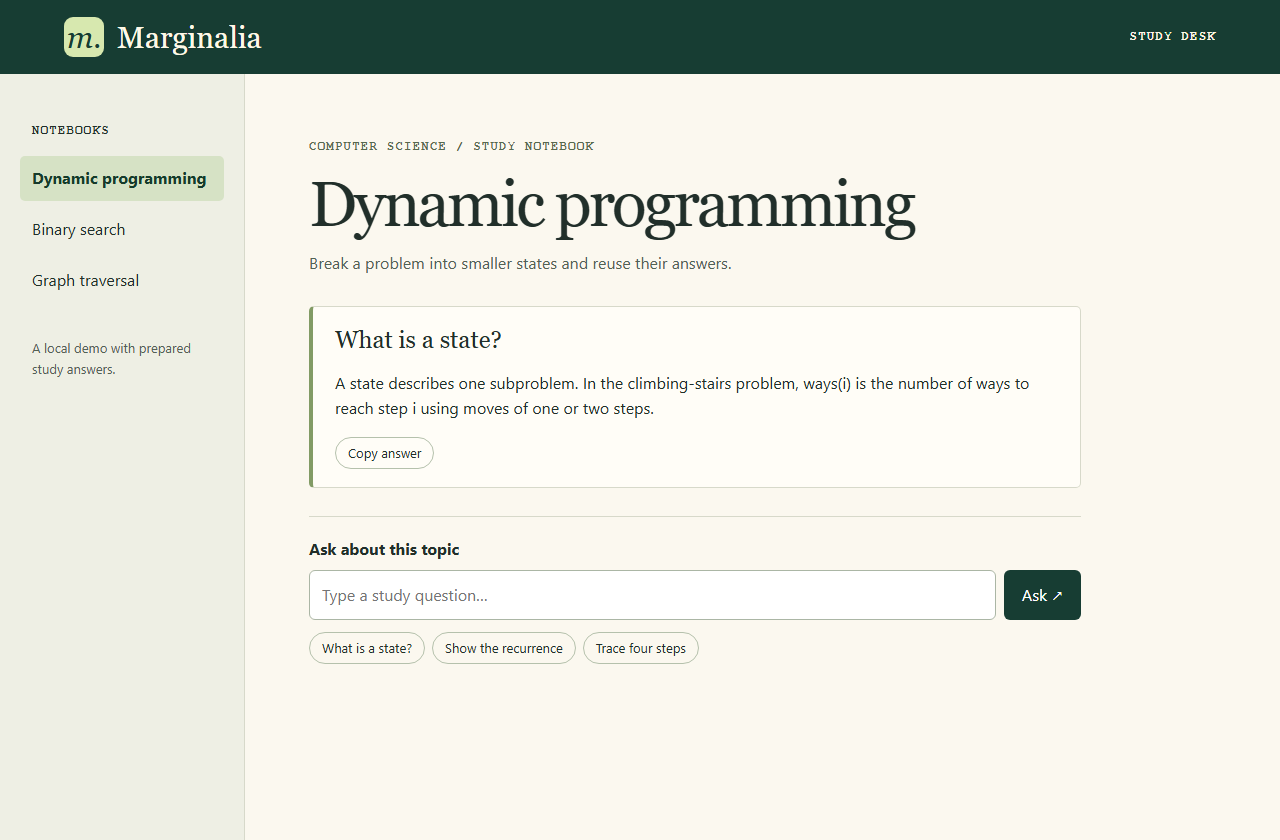
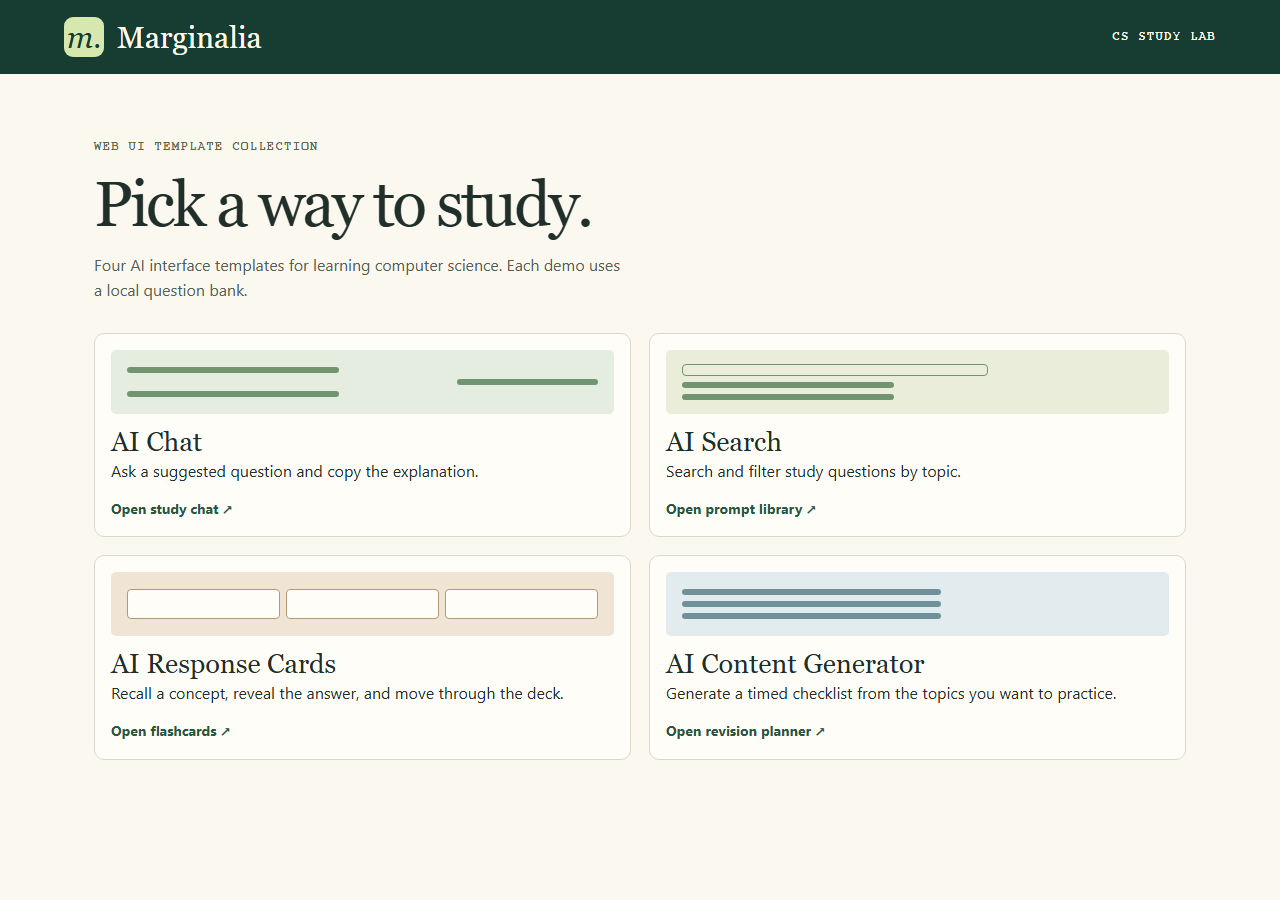
Build four standalone AI interface templates and gallery

diff --git a/tools.js b/tools.js
@@ -1,0 +1,120 @@
+const page = document.querySelector("[data-tool]");
+const byId = id => document.getElementById(id);
+const topic = byId("topic");
+
+function element(tag, text) {
+  const node = document.createElement(tag);
+  node.textContent = text;
+  return node;
+}
+
+const entries = notebooks.flatMap(notebook => notebook.questions.map(([question, answer]) => ({
+  topic: notebook.title,
+  question,
+  answer
+})));
+
+if (topic) {
+  notebooks.forEach(notebook => topic.add(new Option(notebook.title, notebook.title)));
+}
+
+function selectedEntries() {
+  return entries.filter(entry => !topic.value || entry.topic === topic.value);
+}
+
+function showResults() {
+  const search = byId("search").value.trim().toLowerCase();
+  const matches = selectedEntries().filter(entry =>
+    [entry.topic, entry.question, entry.answer].some(text => text.toLowerCase().includes(search))
+  );
+  byId("result-count").textContent = matches.length === 1 ? "1 question" : matches.length + " questions";
+  byId("results").replaceChildren(...matches.map(entry => {
+    const result = document.createElement("details");
+    const summary = element("summary", entry.question);
+    const label = element("p", entry.topic);
+    label.className = "eyebrow";
+    result.append(summary, label, element("p", entry.answer));
+    return result;
+  }));
+}
+
+if (page.dataset.tool === "library") {
+  byId("search").addEventListener("input", showResults);
+  topic.addEventListener("change", showResults);
+  showResults();
+}
+
+if (page.dataset.tool === "flashcards") {
+  let position = 0;
+  const answer = byId("card-answer");
+  const reveal = byId("reveal");
+
+  function showCard() {
+    const deck = selectedEntries();
+    const entry = deck[position];
+    byId("position").textContent = "Card " + (position + 1) + " of " + deck.length + " / " + entry.topic;
+    byId("card-question").textContent = entry.question;
+    answer.textContent = entry.answer;
+    setReveal(false);
+    byId("previous").disabled = position === 0;
+    byId("next").disabled = position === deck.length - 1;
+  }
+
+  function setReveal(visible) {
+    answer.hidden = !visible;
+    reveal.textContent = visible ? "Hide answer" : "Reveal answer";
+    reveal.setAttribute("aria-expanded", String(visible));
+  }
+
+  reveal.addEventListener("click", () => setReveal(answer.hidden));
+  byId("previous").addEventListener("click", () => { position -= 1; showCard(); });
+  byId("next").addEventListener("click", () => { position += 1; showCard(); });
+  topic.addEventListener("change", () => { position = 0; showCard(); });
+  showCard();
+}
+
+if (page.dataset.tool === "planner") {
+  const choices = byId("choices");
+  const list = byId("plan");
+  const progress = byId("progress");
+
+  notebooks.forEach((notebook, index) => {
+    const label = document.createElement("label");
+    const checkbox = document.createElement("input");
+    checkbox.type = "checkbox";
+    checkbox.value = String(index);
+    checkbox.checked = index === 0;
+    label.append(checkbox, document.createTextNode(notebook.title));
+    choices.append(label);
+  });
+
+  function showProgress() {
+    progress.textContent = list.querySelectorAll(":checked").length + " of " + list.children.length + " tasks complete";
+  }
+
+  byId("planner").addEventListener("submit", event => {
+    event.preventDefault();
+    const selected = Array.from(choices.querySelectorAll(":checked"), checkbox => notebooks[Number(checkbox.value)]);
+    const tasks = selected.flatMap(notebook => notebook.questions.map(([question]) => ({ title: notebook.title, question })));
+    if (!tasks.length) {
+      list.replaceChildren();
+      progress.textContent = "Select at least one topic.";
+      choices.querySelector("input").focus();
+      return;
+    }
+    const minutes = Number(byId("minutes").value);
+    const share = Math.floor(minutes / tasks.length);
+    const remainder = minutes % tasks.length;
+    list.replaceChildren(...tasks.map((task, index) => {
+      const item = document.createElement("li");
+      const label = document.createElement("label");
+      const checkbox = document.createElement("input");
+      checkbox.type = "checkbox";
+      label.append(checkbox, document.createTextNode((share + Number(index < remainder)) + " min · " + task.title + " — " + task.question));
+      item.append(label);
+      return item;
+    }));
+    showProgress();
+  });
+  list.addEventListener("change", showProgress);
+}

diff --git a/style.css b/style.css
@@ -52,3 +52,49 @@ input { flex: 1; width: 0; min-width: 0; border: 1px solid #abb6a5; border-radiu
   h1 { font-size: 36px; }
   article { padding-inline: 16px; }
 }
+
+a.brand { color: inherit; text-decoration: none; }
+.back { color: #fff9e8; font-size: 14px; text-underline-offset: 4px; white-space: nowrap; }
+.collection, .study-tool { margin: auto; }
+.collection { max-width: 1220px; }
+.collection-intro, .study-tool > p { max-width: 62ch; color: #526255; }
+.template-grid { display: grid; grid-template-columns: repeat(2,minmax(0,1fr)); gap: 18px; margin-top: 30px; }
+.template { display: block; background: #fffdf7; border: 1px solid var(--line); border-radius: 10px; padding: 16px; color: inherit; text-decoration: none; }
+.template:hover { border-color: #729571; }
+.template h2 { margin: 12px 0 2px; font: 27px Georgia,serif; }
+.template p { margin: 0 0 12px; }
+.open-label { font-weight: 650; font-size: 14px; color: #285643; }
+.sample { display: grid; align-content: center; justify-items: start; gap: 6px; height: 64px; padding: 10px 16px; border-radius: 5px; background: #e4eddf; }
+.sample i { height: 6px; width: 45%; border-radius: 4px; background: #729571; }
+.sample-chat i:nth-child(2) { justify-self: end; width: 30%; }
+.sample-library { background: #e9edda; }
+.sample-library i:nth-child(1) { border: 1px solid #729571; background: transparent; width: 65%; height: 12px; }
+.sample-cards { background: #f0e5d4; grid-template-columns: repeat(3, minmax(0, 1fr)); align-items: center; }
+.sample-cards i { width: 100%; height: 30px; background: #fffdf7; border: 1px solid #b69773; }
+.sample-planner { background: #e2ebed; }
+.sample-planner i { width: 55%; background: #6f9298; }
+.filters { display: grid; grid-template-columns: 2fr 1fr; gap: 12px; margin-top: 24px; }
+.filters input, select { width: 100%; display: block; margin-top: 5px; }
+select { font: inherit; color: inherit; padding: 10px; border: 1px solid #abb6a5; border-radius: 6px; background: #fffdf7; }
+.deck-label { width: min(100%, 290px); margin-block: 18px; }
+.results { display: grid; gap: 8px; }
+.results details { border: 1px solid var(--line); background: #fffdf7; border-radius: 6px; padding: 12px 16px; }
+.results summary { cursor: pointer; font-weight: 650; }
+.results .eyebrow { margin-top: 12px; }
+#card .eyebrow { margin-bottom: 10px; }
+#card h2 { margin-bottom: 14px; }
+.action, .secondary { padding: 9px 14px; border-radius: 6px; border: 1px solid #abb6a5; }
+.action, .action:hover { color: white; background: var(--forest); }
+.secondary { background: #fffdf7; }
+.secondary:disabled { opacity: .5; cursor: default; }
+.button-row { display: flex; gap: 8px; }
+fieldset { border: 1px solid var(--line); border-radius: 6px; }
+#choices label, .checklist label { display: flex; align-items: baseline; gap: 10px; font-weight: normal; }
+#choices input, .checklist input { flex: none; width: 16px; height: 16px; margin: 0; }
+.checklist { padding: 0; list-style: none; }
+.checklist li { border-bottom: 1px solid var(--line); margin-bottom: 8px; }
+a:focus-visible, select:focus-visible, summary:focus-visible { outline: 3px solid #aa611c; outline-offset: 3px; }
+@media (max-width: 600px) {
+  .template-grid, .filters { grid-template-columns: 1fr; }
+}
+

diff --git a/index.html b/index.html
@@ -3,26 +3,21 @@
 <head>
   <meta charset="utf-8">
   <meta name="viewport" content="width=device-width,initial-scale=1">
-  <title>Marginalia · Study desk</title>
+  <title>Marginalia | UI template collection</title>
   <link rel="stylesheet" href="style.css">
-  <script defer src="topics.js"></script>
-  <script defer src="script.js"></script>
 </head>
 <body>
-  <header><span class="brand"><i aria-hidden="true">m.</i> Marginalia</span><span>Study desk</span></header>
-  <div class="layout">
-    <aside><h2>Notebooks</h2><nav aria-label="Study notebooks" id="notebooks"></nav>
-      <p class="note">A local demo with prepared study answers.</p></aside>
-    <main>
-      <p class="eyebrow">Computer science / Study notebook</p>
-      <h1 id="title"></h1><p id="intro"></p>
-      <section aria-label="Study conversation" id="thread" aria-live="polite"></section>
-      <form id="composer"><label for="question">Ask about this topic</label>
-        <div class="input-row"><input id="question" required maxlength="240" placeholder="Type a study question…" autocomplete="off"><button type="submit">Ask ↗</button></div>
-        <div id="suggestions" aria-label="Suggested questions"></div>
-      </form>
-      <p id="status" role="status"></p>
-    </main>
-  </div>
+  <header><span class="brand"><i aria-hidden="true">m.</i> Marginalia</span><span>CS Study Lab</span></header>
+  <main class="collection">
+    <p class="eyebrow">Web UI template collection</p>
+    <h1>Pick a way to study.</h1>
+    <p class="collection-intro">Four AI interface templates for learning computer science. Each demo uses a local question bank.</p>
+    <div class="template-grid">
+      <a class="template" href="study-chat.html"><span class="sample sample-chat" aria-hidden="true"><i></i><i></i><i></i></span><h2>AI Chat</h2><p>Ask a suggested question and copy the explanation.</p><span class="open-label">Open study chat ↗</span></a>
+      <a class="template" href="prompt-library.html"><span class="sample sample-library" aria-hidden="true"><i></i><i></i><i></i></span><h2>AI Search</h2><p>Search and filter study questions by topic.</p><span class="open-label">Open prompt library ↗</span></a>
+      <a class="template" href="flashcards.html"><span class="sample sample-cards" aria-hidden="true"><i></i><i></i><i></i></span><h2>AI Response Cards</h2><p>Recall a concept, reveal the answer, and move through the deck.</p><span class="open-label">Open flashcards ↗</span></a>
+      <a class="template" href="revision-planner.html"><span class="sample sample-planner" aria-hidden="true"><i></i><i></i><i></i></span><h2>AI Content Generator</h2><p>Generate a timed checklist from the topics you want to practice.</p><span class="open-label">Open revision planner ↗</span></a>
+    </div>
+  </main>
 </body>
 </html>

diff --git a/revision-planner.html b/revision-planner.html
@@ -1,0 +1,28 @@
+<!doctype html>
+<html lang="en">
+<head>
+  <meta charset="utf-8">
+  <meta name="viewport" content="width=device-width,initial-scale=1">
+  <title>Revision Planner | Marginalia</title>
+  <link rel="stylesheet" href="style.css">
+  <script defer src="topics.js"></script>
+  <script defer src="tools.js"></script>
+</head>
+<body>
+  <header><a class="brand" href="index.html"><i aria-hidden="true">m.</i> Marginalia</a><a class="back" href="index.html">All templates</a></header>
+  <main class="study-tool" data-tool="planner">
+    <p class="eyebrow">Plan a study session</p>
+    <h1>Revision Planner</h1>
+    <p>Select topics and split your study time into three tasks per topic.</p>
+    <form id="planner">
+      <fieldset><legend>Topics to revise</legend><div id="choices"></div></fieldset>
+      <label class="deck-label">Available time <select id="minutes"><option value="15">15 minutes</option><option value="30" selected>30 minutes</option><option value="45">45 minutes</option><option value="60">60 minutes</option></select></label>
+      <button class="action" type="submit">Build plan</button>
+    </form>
+    <section aria-label="Revision checklist">
+      <p id="progress" role="status"></p>
+      <ul class="checklist" id="plan"></ul>
+    </section>
+  </main>
+</body>
+</html>

diff --git a/study-chat.html b/study-chat.html
@@ -1,0 +1,29 @@
+<!doctype html>
+<html lang="en">
+<head>
+  <meta charset="utf-8">
+  <meta name="viewport" content="width=device-width,initial-scale=1">
+  <title>Marginalia · Study desk</title>
+  <link rel="stylesheet" href="style.css">
+  <script defer src="topics.js"></script>
+  <script defer src="script.js"></script>
+</head>
+<body>
+  <header><a class="brand" href="index.html"><i aria-hidden="true">m.</i> Marginalia</a><a class="back" href="index.html">All templates</a></header>
+  <div class="layout">
+    <aside><h2>Notebooks</h2><nav aria-label="Study notebooks" id="notebooks"></nav>
+      <p class="note">A local demo with prepared study answers.</p></aside>
+    <main>
+      <p class="eyebrow">Computer science / Study notebook</p>
+      <h1 id="title"></h1><p id="intro"></p>
+      <section aria-label="Study conversation" id="thread" aria-live="polite"></section>
+      <form id="composer"><label for="question">Ask about this topic</label>
+        <div class="input-row"><input id="question" required maxlength="240" placeholder="Type a study question…" autocomplete="off"><button type="submit">Ask ↗</button></div>
+        <div id="suggestions" aria-label="Suggested questions"></div>
+      </form>
+      <p id="status" role="status"></p>
+    </main>
+  </div>
+</body>
+</html>
+

diff --git a/flashcards.html b/flashcards.html
@@ -1,0 +1,27 @@
+<!doctype html>
+<html lang="en">
+<head>
+  <meta charset="utf-8">
+  <meta name="viewport" content="width=device-width,initial-scale=1">
+  <title>Flashcards | Marginalia</title>
+  <link rel="stylesheet" href="style.css">
+  <script defer src="topics.js"></script>
+  <script defer src="tools.js"></script>
+</head>
+<body>
+  <header><a class="brand" href="index.html"><i aria-hidden="true">m.</i> Marginalia</a><a class="back" href="index.html">All templates</a></header>
+  <main class="study-tool" data-tool="flashcards">
+    <p class="eyebrow">Practice recall</p>
+    <h1>Flashcards</h1>
+    <p>Try answering each question before revealing the explanation.</p>
+    <label class="deck-label">Deck <select id="topic"><option value="">All topics</option></select></label>
+    <article id="card">
+      <p id="position" class="eyebrow" aria-live="polite"></p>
+      <h2 id="card-question"></h2>
+      <p id="card-answer" hidden></p>
+      <button class="action" id="reveal" type="button" aria-controls="card-answer" aria-expanded="false">Reveal answer</button>
+    </article>
+    <div class="button-row"><button class="secondary" id="previous" type="button">Previous</button><button class="secondary" id="next" type="button">Next</button></div>
+  </main>
+</body>
+</html>

diff --git a/prompt-library.html b/prompt-library.html
@@ -1,0 +1,25 @@
+<!doctype html>
+<html lang="en">
+<head>
+  <meta charset="utf-8">
+  <meta name="viewport" content="width=device-width,initial-scale=1">
+  <title>Prompt Library | Marginalia</title>
+  <link rel="stylesheet" href="style.css">
+  <script defer src="topics.js"></script>
+  <script defer src="tools.js"></script>
+</head>
+<body>
+  <header><a class="brand" href="index.html"><i aria-hidden="true">m.</i> Marginalia</a><a class="back" href="index.html">All templates</a></header>
+  <main class="study-tool" data-tool="library">
+    <p class="eyebrow">Find a question</p>
+    <h1>Prompt Library</h1>
+    <p>Choose a topic or search across all questions and explanations.</p>
+    <div class="filters">
+      <label>Search <input id="search" type="search" placeholder="e.g. recurrence"></label>
+      <label>Topic <select id="topic"><option value="">All topics</option></select></label>
+    </div>
+    <p id="result-count" role="status"></p>
+    <div id="results" class="results"></div>
+  </main>
+</body>
+</html>

diff --git a/README.md b/README.md
@@ -1,51 +1,38 @@
-# Marginalia · Study desk
+# Marginalia | CS Study Lab
 
-**Assignment 2 · UI Template Collection Hackathon**  
-**Project name** Marginalia  
-**Team member** Charan Sai Teja Mannemala (individual submission)  
-**Selected UI topic** AI Interfaces
+**Assignment 2 · Web UI Template Collection**  
+**Individual submission:** Charan Sai Teja Mannemala
 
-Marginalia is a browser-based study desk for three computer science topics. It demonstrates how a learner can move between conversations, compose a question and reuse an answer. All answers are prewritten. There is no model, account, API key or network request. The conversation lasts until the page is refreshed.
+**Selected category:** AI Interfaces
 
-## Run locally
+Marginalia demonstrates four interactive study interfaces in HTML, CSS and vanilla JavaScript. All explanations come from a local question bank.
 
-Extract the ZIP and open `index.html` in a modern browser. The HTML, CSS and both JavaScript files must stay together. No packages or build step are required.
+## Open the project
 
-## Implemented UI templates
+Download or clone the repository and open `index.html` in a browser. Select any template on the home page. No server, account or packages are required.
 
-| Template | How to try it | Where to look in the code |
-| --- | --- | --- |
-| Conversation sidebar | Switch notebooks and return to an earlier conversation. Each notebook retains its own messages during the session. | The notebooks navigation in index.html and openNotebook in script.js |
-| Prompt suggestion composer | Choose a suggested question, edit it, and press Enter or Ask. An unrecognized question displays a guide to the supported prompts. | The composer form in index.html and the suggestions in openNotebook |
-| AI response card | Read the question and answer together. Select Copy answer to copy the text. If the browser restricts clipboard access, the text is selected for manual copying. | renderCard and copyAnswer in script.js |
+| Template | What to demonstrate |
+| --- | --- |
+| AI Chat · Study Chat | Open Binary search, select **Trace a search**, and press **Ask**. Switch notebooks and return to see the conversation remain in place during the session. |
+| AI Search · Prompt Library | Filter by topic or search for a word such as **recurrence**. Expand a result to read its explanation. |
+| AI Response Cards · Flashcards | Reveal the answer, then select **Next**. Choose a topic to focus the deck. |
+| AI Content Generator · Revision Planner | Choose topics and a duration, build a timed plan, then check a task to update progress. |
 
-## Topic research
+The four pages share `style.css` and the study data in `topics.js`. The home page links to each standalone template. At phone widths the template cards stack and the Study Chat notebook controls move above the conversation.
 
-A conversation sidebar gives users a stable place to switch context. IBM Carbon describes its left panel as appropriate for frequent switching between secondary navigation items. Here the same idea is applied to notebooks. On a narrow screen the notebook choices move above the conversation so the answer keeps the available reading width. [IBM Carbon left panel guidance](https://v10.carbondesignsystem.com/components/UI-shell-left-panel/usage/)
+## Design references
 
-Suggestion chips offer likely next actions near an input. Android's design guidance describes suggestion chips as contextual recommendations. In this implementation, each notebook offers different questions. Selecting a chip fills the input and leaves the learner free to edit before submitting. [Android Developers chip guidance](https://developer.android.com/develop/ui/compose/components/chip)
-
-The response card keeps an individual question, answer and copy action together. This lets a student copy one explanation from a longer exchange. Our implementation combines all three patterns in an offline study desk and includes a worked example for each notebook.
-
-## Technologies and reuse
-
-HTML provides semantic navigation, a labelled form and a live conversation region. CSS handles the grid, small-screen layout and keyboard focus. Vanilla JavaScript renders notebook choices and response cards. To adapt the desk to another subject, edit the titles, introductions and question–answer pairs in topics.js. The sidebar and suggestions update from that data.
+- [IBM Carbon left panel guidance](https://v10.carbondesignsystem.com/components/UI-shell-left-panel/usage/) describes navigation for frequently switched destinations. Study Chat applies that pattern to notebooks.
+- [Android Developers chip guidance](https://developer.android.com/develop/ui/compose/components/chip) describes contextual suggestions. Study Chat uses editable prompt suggestions before submission.
 
 ## Previews
 
-![Desktop study desk](previews/desktop.png)
+![Desktop collection](previews/desktop.png)
 
-![Mobile study desk](previews/mobile.png)
-
-## One-minute demonstration
-
-1. Open Binary search. Choose **Trace a search** and press **Ask**. Read the index trace and copy the answer.
-2. Switch to Graph traversal and return to Binary search. Point out that the previous question stays in that notebook.
-3. Narrow the browser window. The sidebar becomes a row of notebook choices above the answer.
-4. Show the actual feature branch, commits and pull request in the assigned repository once published. Explain any feedback and resulting changes.
+![Mobile collection](previews/mobile.png)
 
 ## GitHub workflow
 
-This standalone repository contains the work for an individual submission. The project is published on the `feature/marginalia-study-desk` branch. Open the pull request to see the changes proposed for `main`.
+Use the repository’s **Pull requests** tab to see the original Study Chat contribution, the mobile fix and the expansion to four templates.
 
-The assignment describes a team review and a fork of the assigned repository. For an individual submission using this standalone repository, confirm the submission arrangement and reviewer with the instructor.
+
